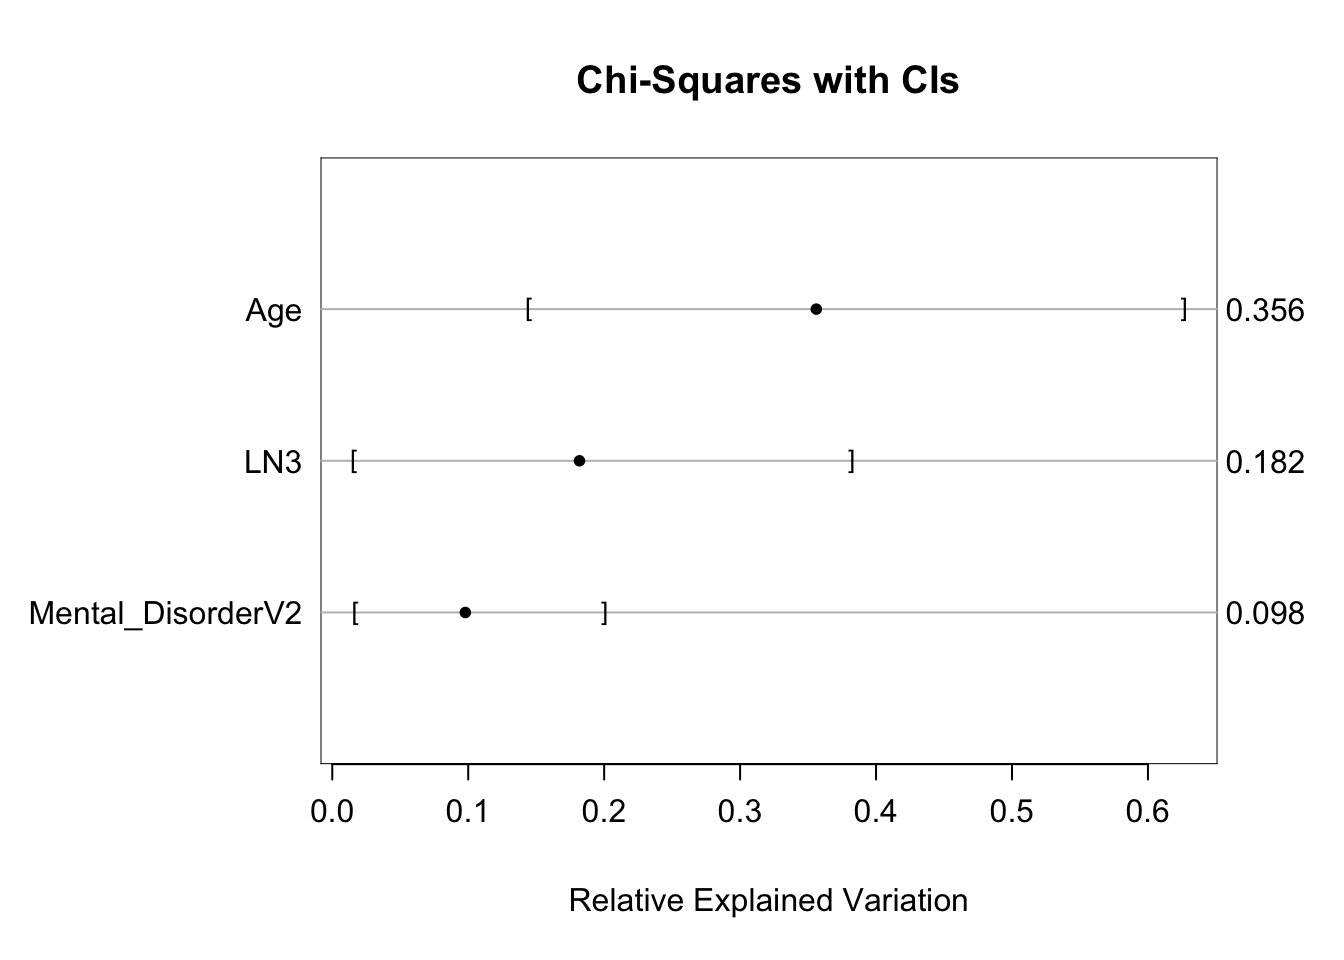
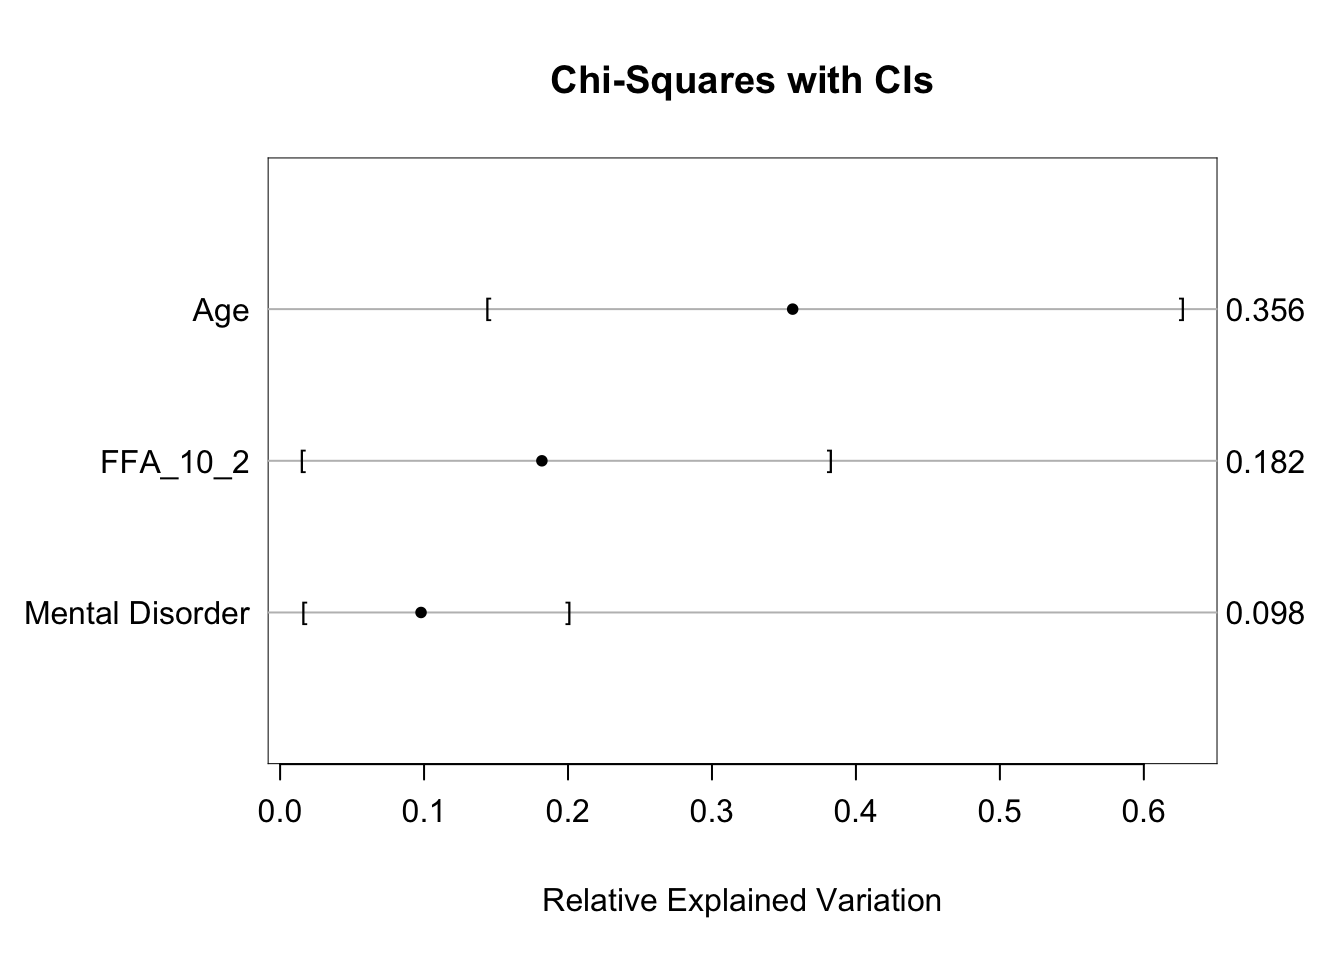
Text changes

diff --git a/docs/modeling_lipid_added_value.html b/docs/modeling_lipid_added_value.html
@@ -6,7 +6,7 @@
 
 <meta name="viewport" content="width=device-width, initial-scale=1.0, user-scalable=yes">
 
-<meta name="dcterms.date" content="2025-06-10">
+<meta name="dcterms.date" content="2025-06-17">
 
 <title>AD Project Serum - Modeling &amp; Assessing Lipid Added Value</title>
 <style>
@@ -232,7 +232,7 @@ pre > code.sourceCode > span > a:first-child::before { text-decoration: underlin
     <div>
     <div class="quarto-title-meta-heading">Published</div>
     <div class="quarto-title-meta-contents">
-      <p class="date">June 10, 2025</p>
+      <p class="date">June 17, 2025</p>
     </div>
   </div>
   
@@ -838,7 +838,7 @@ Figure&nbsp;1: The further away the central estimate and its corresponding inter
 </section>
 <section id="variable-selection" class="level2 page-columns page-full">
 <h2 class="anchored" data-anchor-id="variable-selection">Variable Selection</h2>
-<p>From the variable effects above, <code>Age</code> and <code>Mental_DisorderV2</code> seem to be the variables that contribute them most in the model. For assessing lipid added value, a more parsimonious model can be used that best approximates the full model above. In order to so this, a stepwise backward selection procedure is applied with the following results.</p>
+<p>From the variable effects above, <code>Age</code> and <code>Mental_DisorderV2</code> seem to be the variables that contribute the most in the model. For assessing lipid added value, a more parsimonious model can be used that best approximates the full model above. In order to so this, a stepwise backward selection procedure is applied with the following results.</p>
 <div class="cell">
 <div class="cell-output cell-output-stdout">
 <pre><code>
@@ -940,7 +940,7 @@ Figure&nbsp;3: Actual versus predicted probabilities for the reduced model havin
 <div>
 
 </div>
-<div class="cell quarto-layout-panel" data-layout-align="center" data-layout-ncol="2" data-layout-nrow="1">
+<div class="cell quarto-layout-panel" data-layout-ncol="2" data-layout-nrow="1" data-layout-align="center">
 <div class="quarto-layout-row">
 <div class="cell-output-display quarto-layout-cell" style="flex-basis: 50.0%;justify-content: center;">
 <div id="fig-fmodel2_fastbw2_AgeLinear_bw-pdp1-1" class="quarto-figure quarto-figure-center quarto-float anchored" data-fig-align="center">
@@ -974,7 +974,7 @@ Figure&nbsp;5: Risk of having AD when either in HC or MCI state. Different curve
 <div>
 
 </div>
-<div class="cell quarto-layout-panel" data-layout-align="center" data-layout-ncol="2" data-layout-nrow="1">
+<div class="cell quarto-layout-panel" data-layout-ncol="2" data-layout-nrow="1" data-layout-align="center">
 <div class="quarto-layout-row">
 <div class="cell-output-display quarto-layout-cell" style="flex-basis: 50.0%;justify-content: center;">
 <div id="fig-fmodel2_fastbw2_AgeLinear_bw-pdp2-1" class="quarto-figure quarto-figure-center quarto-float anchored" data-fig-align="center">
@@ -1008,7 +1008,7 @@ Figure&nbsp;7: Risk of having AD when either in HC or MCI state, and Age is 73.
 <div>
 
 </div>
-<div class="cell quarto-layout-panel" data-layout-align="center" data-layout-ncol="2" data-layout-nrow="1">
+<div class="cell quarto-layout-panel" data-layout-ncol="2" data-layout-nrow="1" data-layout-align="center">
 <div class="quarto-layout-row">
 <div class="cell-output-display quarto-layout-cell" style="flex-basis: 50.0%;justify-content: center;">
 <div id="fig-fmodel2_fastbw2_AgeLinear_bw-pdp3-1" class="quarto-figure quarto-figure-center quarto-float anchored" data-fig-align="center">
@@ -1252,7 +1252,7 @@ TOTAL
 <img src="modeling_lipid_added_value_files/figure-html/fig-LR_added_value_boot-1.png" class="img-fluid quarto-figure quarto-figure-center figure-img" width="960">
 </div>
 <figcaption class="quarto-float-caption-bottom quarto-float-caption quarto-float-fig" id="fig-LR_added_value_boot-caption-0ceaefa1-69ba-4598-a22c-09a6ac19f8ca">
-Figure&nbsp;11: Bootstrap distribution of Chi-Square LR statistics from 3 degrees of freedom models, having Age, Mental_DisorderV2 and each lipid separately as predictor variables. Comparison between the selected FFA_10_2 i.e.&nbsp;LN3 lipid with the rest of the 382 lipids. It can be seen that there is bimodality and that the selected lipid separates itself towards higher LR values compared to the other lipids. The separation though, while significant, is not striking.
+Figure&nbsp;11: Bootstrap distribution of Chi-Square LR statistics from 3 degrees of freedom models, having Age, Mental_DisorderV2 and each lipid separately as predictor variables. Comparison between the selected FFA_10_2 i.e.&nbsp;LN3 lipid with the rest of the 382 lipids. It can be seen that there is bimodality and that the selected lipid separates itself towards higher LR values compared to the other lipids. The separation though, while significant, is not striking. The vertical dashed lines denote the 34th and 85th quantiles (~50%) of the Chi-Square LR values from the FFA_10_2 distribution.
 </figcaption>
 </figure>
 </div>
@@ -2703,11 +2703,11 @@ Figure&nbsp;12: It can be seen that there is overlap in the confidence regions o
 </div>
 </div>
 <p>The <code>FFA_10_2</code> lipid adds a fraction of <code>0.18</code> of new diagnostic information to <code>Age</code> and <code>Mental_DisorderV2</code>. In terms of percentage to total <code>REV</code>, this is 29% compared to the model’s total of <code>64%</code>.</p>
-<p>To further visualize the diagnostic yield of <code>FFA_10_2</code>, the plot below estimates the <code>with FFA_10_2</code> vs <code>without FFA_10_2</code> risk probability for each of the threes state transitions. Quantile regression is used to estimate the <code>0.1</code> and <code>0.9</code> quantiles of the <code>with</code> risk as a function of the <code>without</code> risk. This allows one to readily see the typical changes in a <code>without</code> probability once <code>FFA_10_2</code> is known and added in the base model.</p>
+<p>To further visualize the diagnostic yield of <code>FFA_10_2</code>, the plot below estimates the <code>with FFA_10_2</code> vs <code>without FFA_10_2</code> risk probability for each event probability of the model. Quantile regression is used to estimate the <code>10%</code> and <code>90%</code> quantiles of the <code>with</code> risk as a function of the <code>without</code> risk. This allows one to readily see the typical changes to the <code>without</code> probability once <code>FFA_10_2</code> is known and added to the base model.</p>
 <div>
 
 </div>
-<div class="cell quarto-layout-panel" data-layout-align="center" data-layout-ncol="1" data-layout-nrow="2">
+<div class="cell quarto-layout-panel" data-layout-ncol="1" data-layout-nrow="2" data-layout-align="center">
 <div class="quarto-layout-row">
 <div class="cell-output-display quarto-layout-cell" style="flex-basis: 100.0%;justify-content: center;">
 <div id="fig-with-without-risk-probs-1" class="quarto-figure quarto-figure-center quarto-float anchored" data-fig-align="center">
@@ -2741,7 +2741,7 @@ Figure&nbsp;14: Risk of having AD when either in HC or MCI state. See previous p
 <div>
 
 </div>
-<div class="cell quarto-layout-panel" data-layout-align="center" data-layout-ncol="1" data-layout-nrow="2">
+<div class="cell quarto-layout-panel" data-layout-ncol="1" data-layout-nrow="2" data-layout-align="center">
 <div class="quarto-layout-row">
 <div class="cell-output-display quarto-layout-cell" style="flex-basis: 100.0%;justify-content: center;">
 <div id="fig-with-without-risk-diff-1" class="quarto-figure quarto-figure-center quarto-float anchored" data-fig-align="center">
@@ -2774,7 +2774,7 @@ Figure&nbsp;16: Risk probability difference for the risk of AD between the with 
 </section>
 <section id="sec-modelUpdate1" class="level2">
 <h2 class="anchored" data-anchor-id="sec-modelUpdate1">Model Update 1 - Testing For Non-linearities &amp; Interactions</h2>
-<p>The previous model that includes the <code>FFA_10_2</code> lipid to the <code>Age</code> &amp; <code>Mental_DisorderV2</code> base model, is now expanded with terms involving non-linearities and interactions, and then a backward term selection with probability calibration procedure is applied in order to identify the best terms to keep in the model.</p>
+<p>The previous model that included the <code>FFA_10_2</code> lipid to the <code>Age</code> &amp; <code>Mental_DisorderV2</code> base model, is now expanded with terms involving non-linearities and interactions, and then a backward term selection with probability calibration procedure is applied in order to identify the best terms to keep in the model.</p>
 <p>It seems that an interaction between the <code>FFA_10_2</code> lipid with both <code>Age</code> &amp; <code>Mental_DisorderV2</code> is plausible as the backward selection procedure kept terms involving these interactions. The interaction of <code>FFA_10_2</code> with <code>Age</code> can also be inferred from the plot <code>Age ~ LN3 | group</code> in the data processing page. Below is the model update as well as the REV analysis as in section <a href="#sec-REV1" class="quarto-xref">Section&nbsp;3.3</a>.</p>
 <div class="cell">
 <div class="cell-output cell-output-stdout">
@@ -2843,7 +2843,7 @@ Figure&nbsp;18: Actual versus predicted probabilities for the base model includi
 <img src="modeling_lipid_added_value_files/figure-html/fig-added_value_rev2-1.png" class="img-fluid quarto-figure quarto-figure-center figure-img" width="672">
 </div>
 <figcaption class="quarto-float-caption-bottom quarto-float-caption quarto-float-fig" id="fig-added_value_rev2-caption-0ceaefa1-69ba-4598-a22c-09a6ac19f8ca">
-Figure&nbsp;19: It can be seen that there is overlap in the confidence regions of each predictor. Due to the small sample size of <strong><em>155</em></strong> observations, the intervals are quite wide. Compared to the previous model, now <strong><em>FFA_10_2</em></strong> aka LN3 has surpassed <strong><em>Age</em></strong> in importance, and it accounts for <strong><em>38%</em></strong> of the REV.
+Figure&nbsp;19: It can be seen that there is overlap in the confidence regions of each predictor. Due to the small sample size of <strong><em>155</em></strong> observations, the intervals are quite wide. Compared to the previous model, now <strong><em>FFA_10_2</em></strong> aka LN3 has surpassed <strong><em>Age</em></strong> in importance, and it accounts for <strong><em>38%</em></strong> of the total REV.
 </figcaption>
 </figure>
 </div>
@@ -2855,7 +2855,7 @@ Figure&nbsp;19: It can be seen that there is overlap in the confidence regions o
 <div>
 
 </div>
-<div class="cell quarto-layout-panel" data-layout-align="center" data-layout-ncol="2" data-layout-nrow="3">
+<div class="cell quarto-layout-panel" data-layout-ncol="2" data-layout-nrow="3" data-layout-align="center">
 <div class="quarto-layout-row">
 <div class="cell-output-display quarto-layout-cell" style="flex-basis: 50.0%;justify-content: center;">
 <div id="fig-upd-pdp-1-1" class="quarto-figure quarto-figure-center quarto-float anchored" data-fig-align="center">
@@ -2938,7 +2938,7 @@ Figure&nbsp;25: Risk of having AD when either in HC or MCI state. Dependence on 
 <div>
 
 </div>
-<div class="cell quarto-layout-panel" data-layout-align="center" data-layout-ncol="1" data-layout-nrow="2">
+<div class="cell quarto-layout-panel" data-layout-ncol="1" data-layout-nrow="2" data-layout-align="center">
 <div class="quarto-layout-row">
 <div class="cell-output-display quarto-layout-cell" style="flex-basis: 100.0%;justify-content: center;">
 <div id="fig-upd-pdp-2-1" class="quarto-figure quarto-figure-center quarto-float anchored" data-fig-align="center">
@@ -3779,7 +3779,7 @@ Figure&nbsp;35: Actual versus predicted probabilities for the base model includi
 <img src="modeling_lipid_added_value_files/figure-html/fig-added_value_rev3-1.png" class="img-fluid quarto-figure quarto-figure-center figure-img" width="672">
 </div>
 <figcaption class="quarto-float-caption-bottom quarto-float-caption quarto-float-fig" id="fig-added_value_rev3-caption-0ceaefa1-69ba-4598-a22c-09a6ac19f8ca">
-Figure&nbsp;36: It can be seen that there is overlap in the confidence regions of each predictor. Due to the small sample size of <strong><em>155</em></strong> observations, the intervals are quite wide. <strong><em>FFA_10_2</em></strong> aka LN3 accounts for <strong><em>30%</em></strong> of the REV.
+Figure&nbsp;36: It can be seen that there is overlap in the confidence regions of each predictor. Due to the small sample size of <strong><em>155</em></strong> observations, the intervals are quite wide. <strong><em>FFA_10_2</em></strong> aka LN3 accounts for <strong><em>30%</em></strong> of the total REV.
 </figcaption>
 </figure>
 </div>

diff --git a/docs/metaDat_desc_201124.html b/docs/metaDat_desc_201124.html
@@ -6,7 +6,7 @@
 
 <meta name="viewport" content="width=device-width, initial-scale=1.0, user-scalable=yes">
 
-<meta name="dcterms.date" content="2025-06-10">
+<meta name="dcterms.date" content="2025-06-17">
 
 <title>AD Project Serum - Data Description/Processing - AD Meta Data &amp; Lipids</title>
 <style>
@@ -210,7 +210,7 @@ window.Quarto = {
     <div>
     <div class="quarto-title-meta-heading">Published</div>
     <div class="quarto-title-meta-contents">
-      <p class="date">June 10, 2025</p>
+      <p class="date">June 17, 2025</p>
     </div>
   </div>
   
